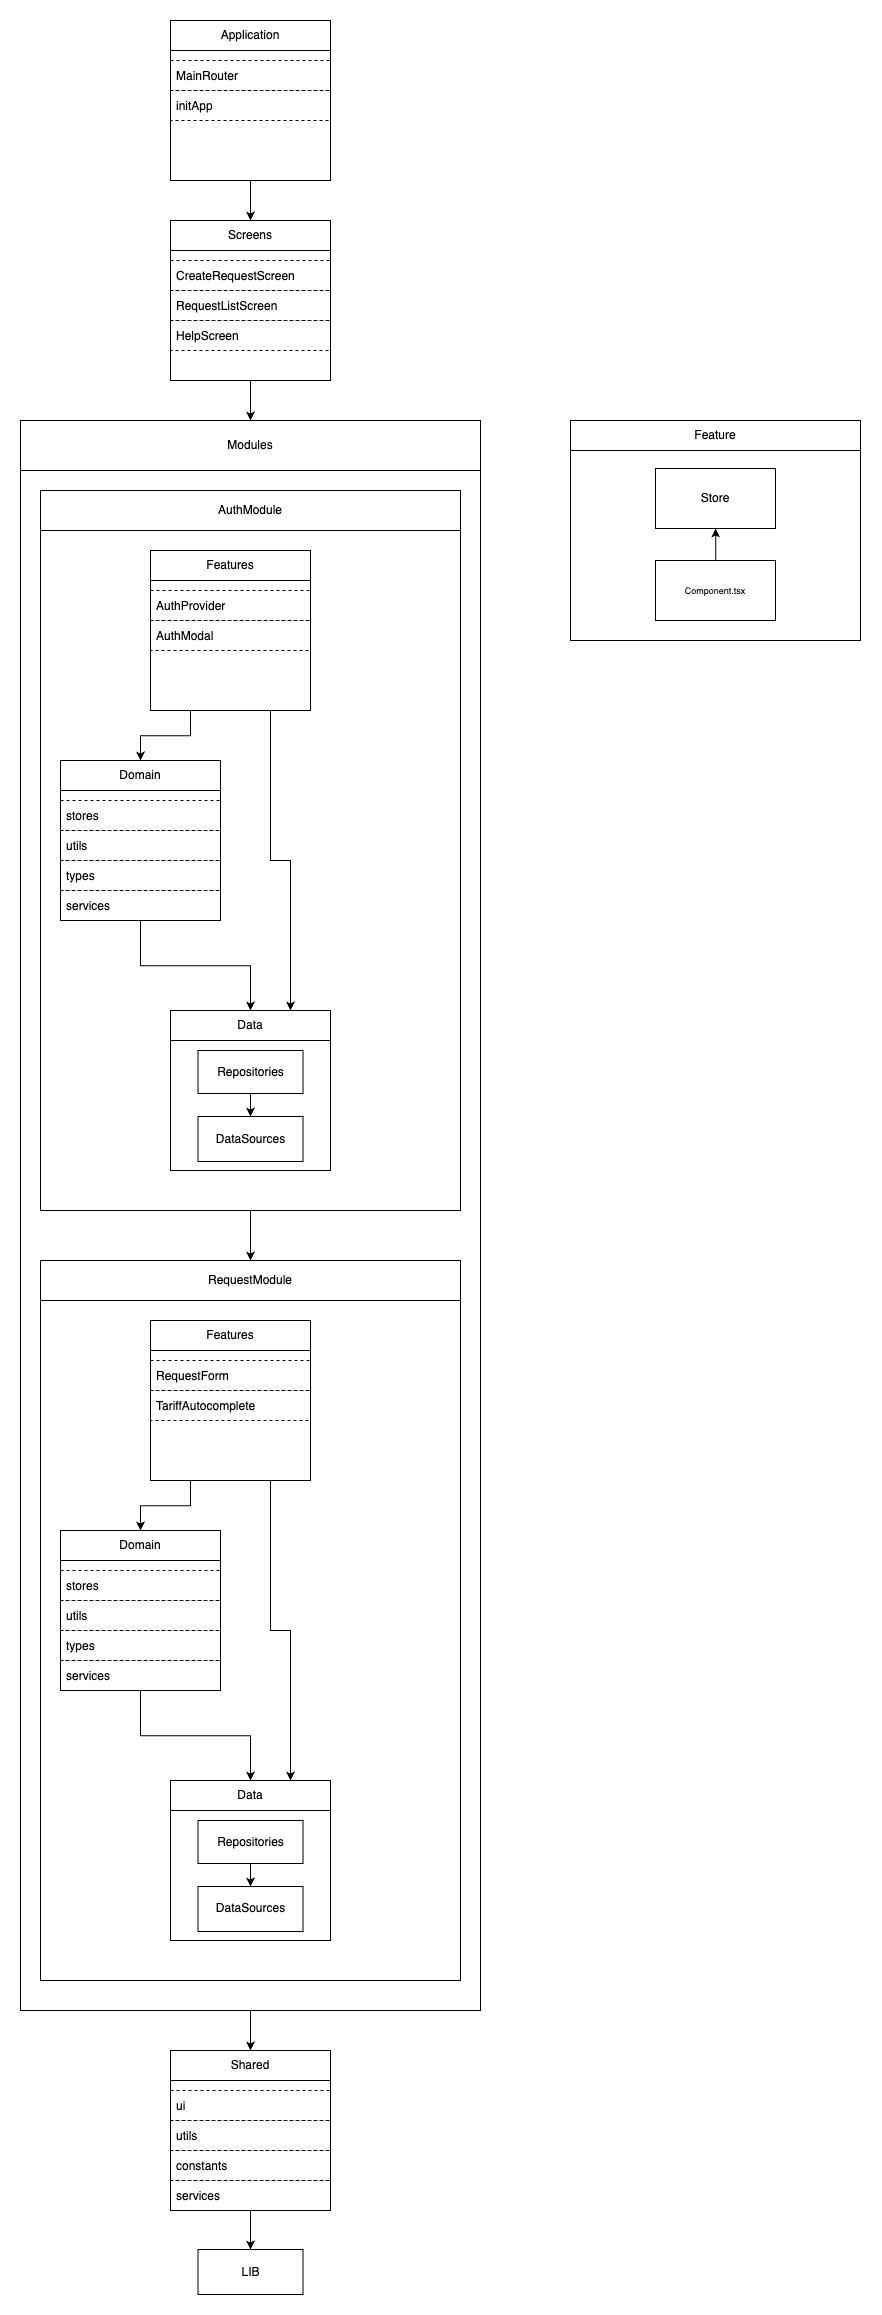
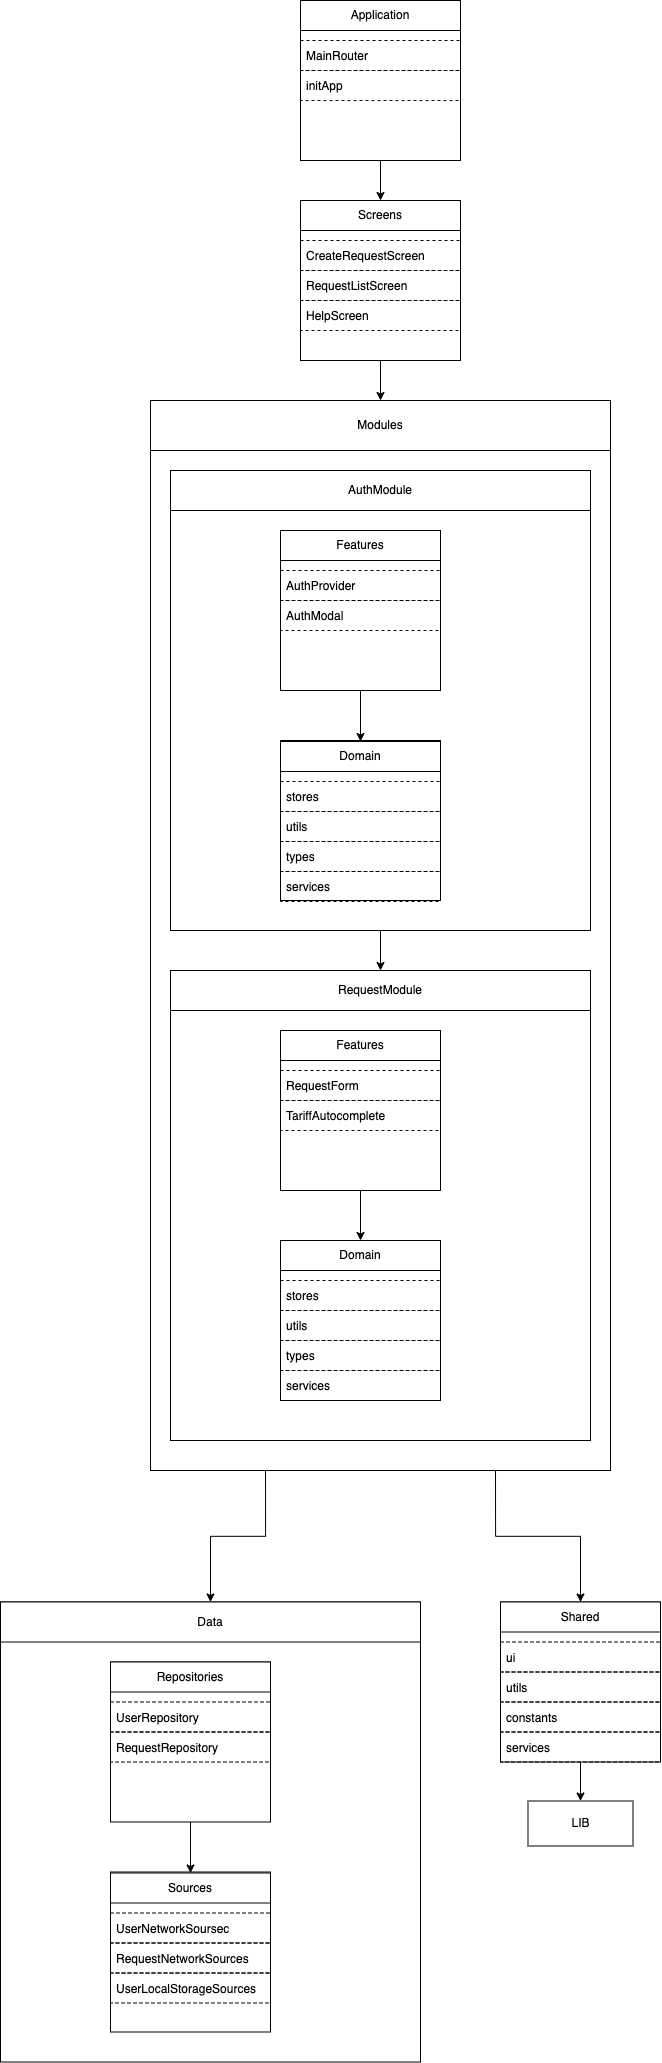
doc: Обновлена схема архитектуры

diff --git a/README.md b/README.md
@@ -1,4 +1,4 @@
-# Boilerplate для csr react + ts + webpack + cypress
+# Boilerplate для nextjs
 Примечание перед сипользованием:
 - После клонирования необходимо обновить все основные пакеты до последней версии
 - Husky обновлять не нужно. Используется версия 4 для работы с конфигурацией через json
@@ -22,12 +22,40 @@
 Программные компоненты в этом слое можно рассматривать как компоненты, которые можно использовать в других приложениях.
 Все внешние заивисмости должны проходить через shared слой. Другие слои не должны иметь прямую зависимость от библиотек.
 
+### data
+
+Слой работы с данными.
+
+Слой разделен на два сегмента:
+- repositories
+- dataSources
+
+#### dataSources
+
+Сегмент позволяющий получать данные из источника (api, localStorage...).
+Данный сегмент может является кодогенерацией openapi.
+
+!!! dataSources - приватный сегмент data слоя, он недоступен для других слоев.
+
+Правила именования dataSources: НАЗВАНИЕ_ПОЛУЧАЕМОЙ_СУЩНОСТИ + НАЗВАНИЕ_ИСТОЧНИКА_ДАННЫХ + Sources.
+Примеры: userNetworkSources, requestNetworkSources, userLocalStorageSources
+
+#### repositories
+
+Сегмент-фасад для работы с данными. Именно repositories доступны для использования в других слоях.
+Repository зависит от dataSources и может использовать несколько dataSources.
+
+Данный слой отвечает за:
+- Предоставление данных другим слоям без раскрытия источника. Использует для получения
+- Форматирование данных
+
+Правила именования repositories: НАЗВАНИЕ_ПОЛУЧАЕМОЙ_СУЩНОСТИ + Repository.
+Примеры: UserRepository, TariffRepository
+
 ### screens
 
 Экраны приложения. Объединяет на одном экране несколько features.
-Также может использовать слои: data, features, domain, shared.
-
-!!! Слой не должен напрямую использовать routing. С роутингом взаимодействует application.
+Также может использовать слои: data, modules, shared.
 
 ### modules
 
@@ -37,38 +65,7 @@
 
 Каждый модуль состоит из подслоев:
 - domain
-- data
 - features
-
-#### data
-
-Слой работы с данными.
-
-Слой разделен на два сегмента:
-- repositories
-- dataSources
-
-##### dataSources
-
-Сегмент позволяющий получать данные из источника (api, localStorage...).
-Данный сегмент может является кодогенерацией openapi.
-
-!!! dataSources - приватный сегмент data слоя, он недоступен для других слоев. 
-
-Правила именования dataSources: НАЗВАНИЕ_ПОЛУЧАЕМОЙ_СУЩНОСТИ + НАЗВАНИЕ_ИСТОЧНИКА_ДАННЫХ + Sources.
-Примеры: userNetworkSources, requestNetworkSources, userLocalStorageSources
-
-##### repositories
-
-Сегмент-фасад для работы с данными. Именно repositories доступны для использования в других слоях.
-Repository зависит от dataSources и может использовать несколько dataSources.
-
-Данный слой отвечает за:
-- Предоставление данных другим слоям без раскрытия источника. Использует для получения 
-- Форматирование данных
-
-Правила именования repositories: НАЗВАНИЕ_ПОЛУЧАЕМОЙ_СУЩНОСТИ + Repository.
-Примеры: UserRepository, TariffRepository
 
 #### domain
 
@@ -92,11 +89,11 @@ React компоненты в features разделяются на два вну
 #### Сегментация react компонентов
 
 Выделяется два сегмента:
-- store | logic
+- store
 - view
 
 Зависимости сегментов направлены в одну сторону view -> store(view зависит от store.).
 
-В store | logic сегменте находится вся логика компонента. К логике относится все, что напрямую не связано с react (useRef, useEffect...).
+В store сегменте находится вся логика компонента. К логике относится все, что напрямую не связано с react (useRef, useEffect...).
 
 View слой - это react компонент. View заивисит от store и использует предоставляемую им логику.
